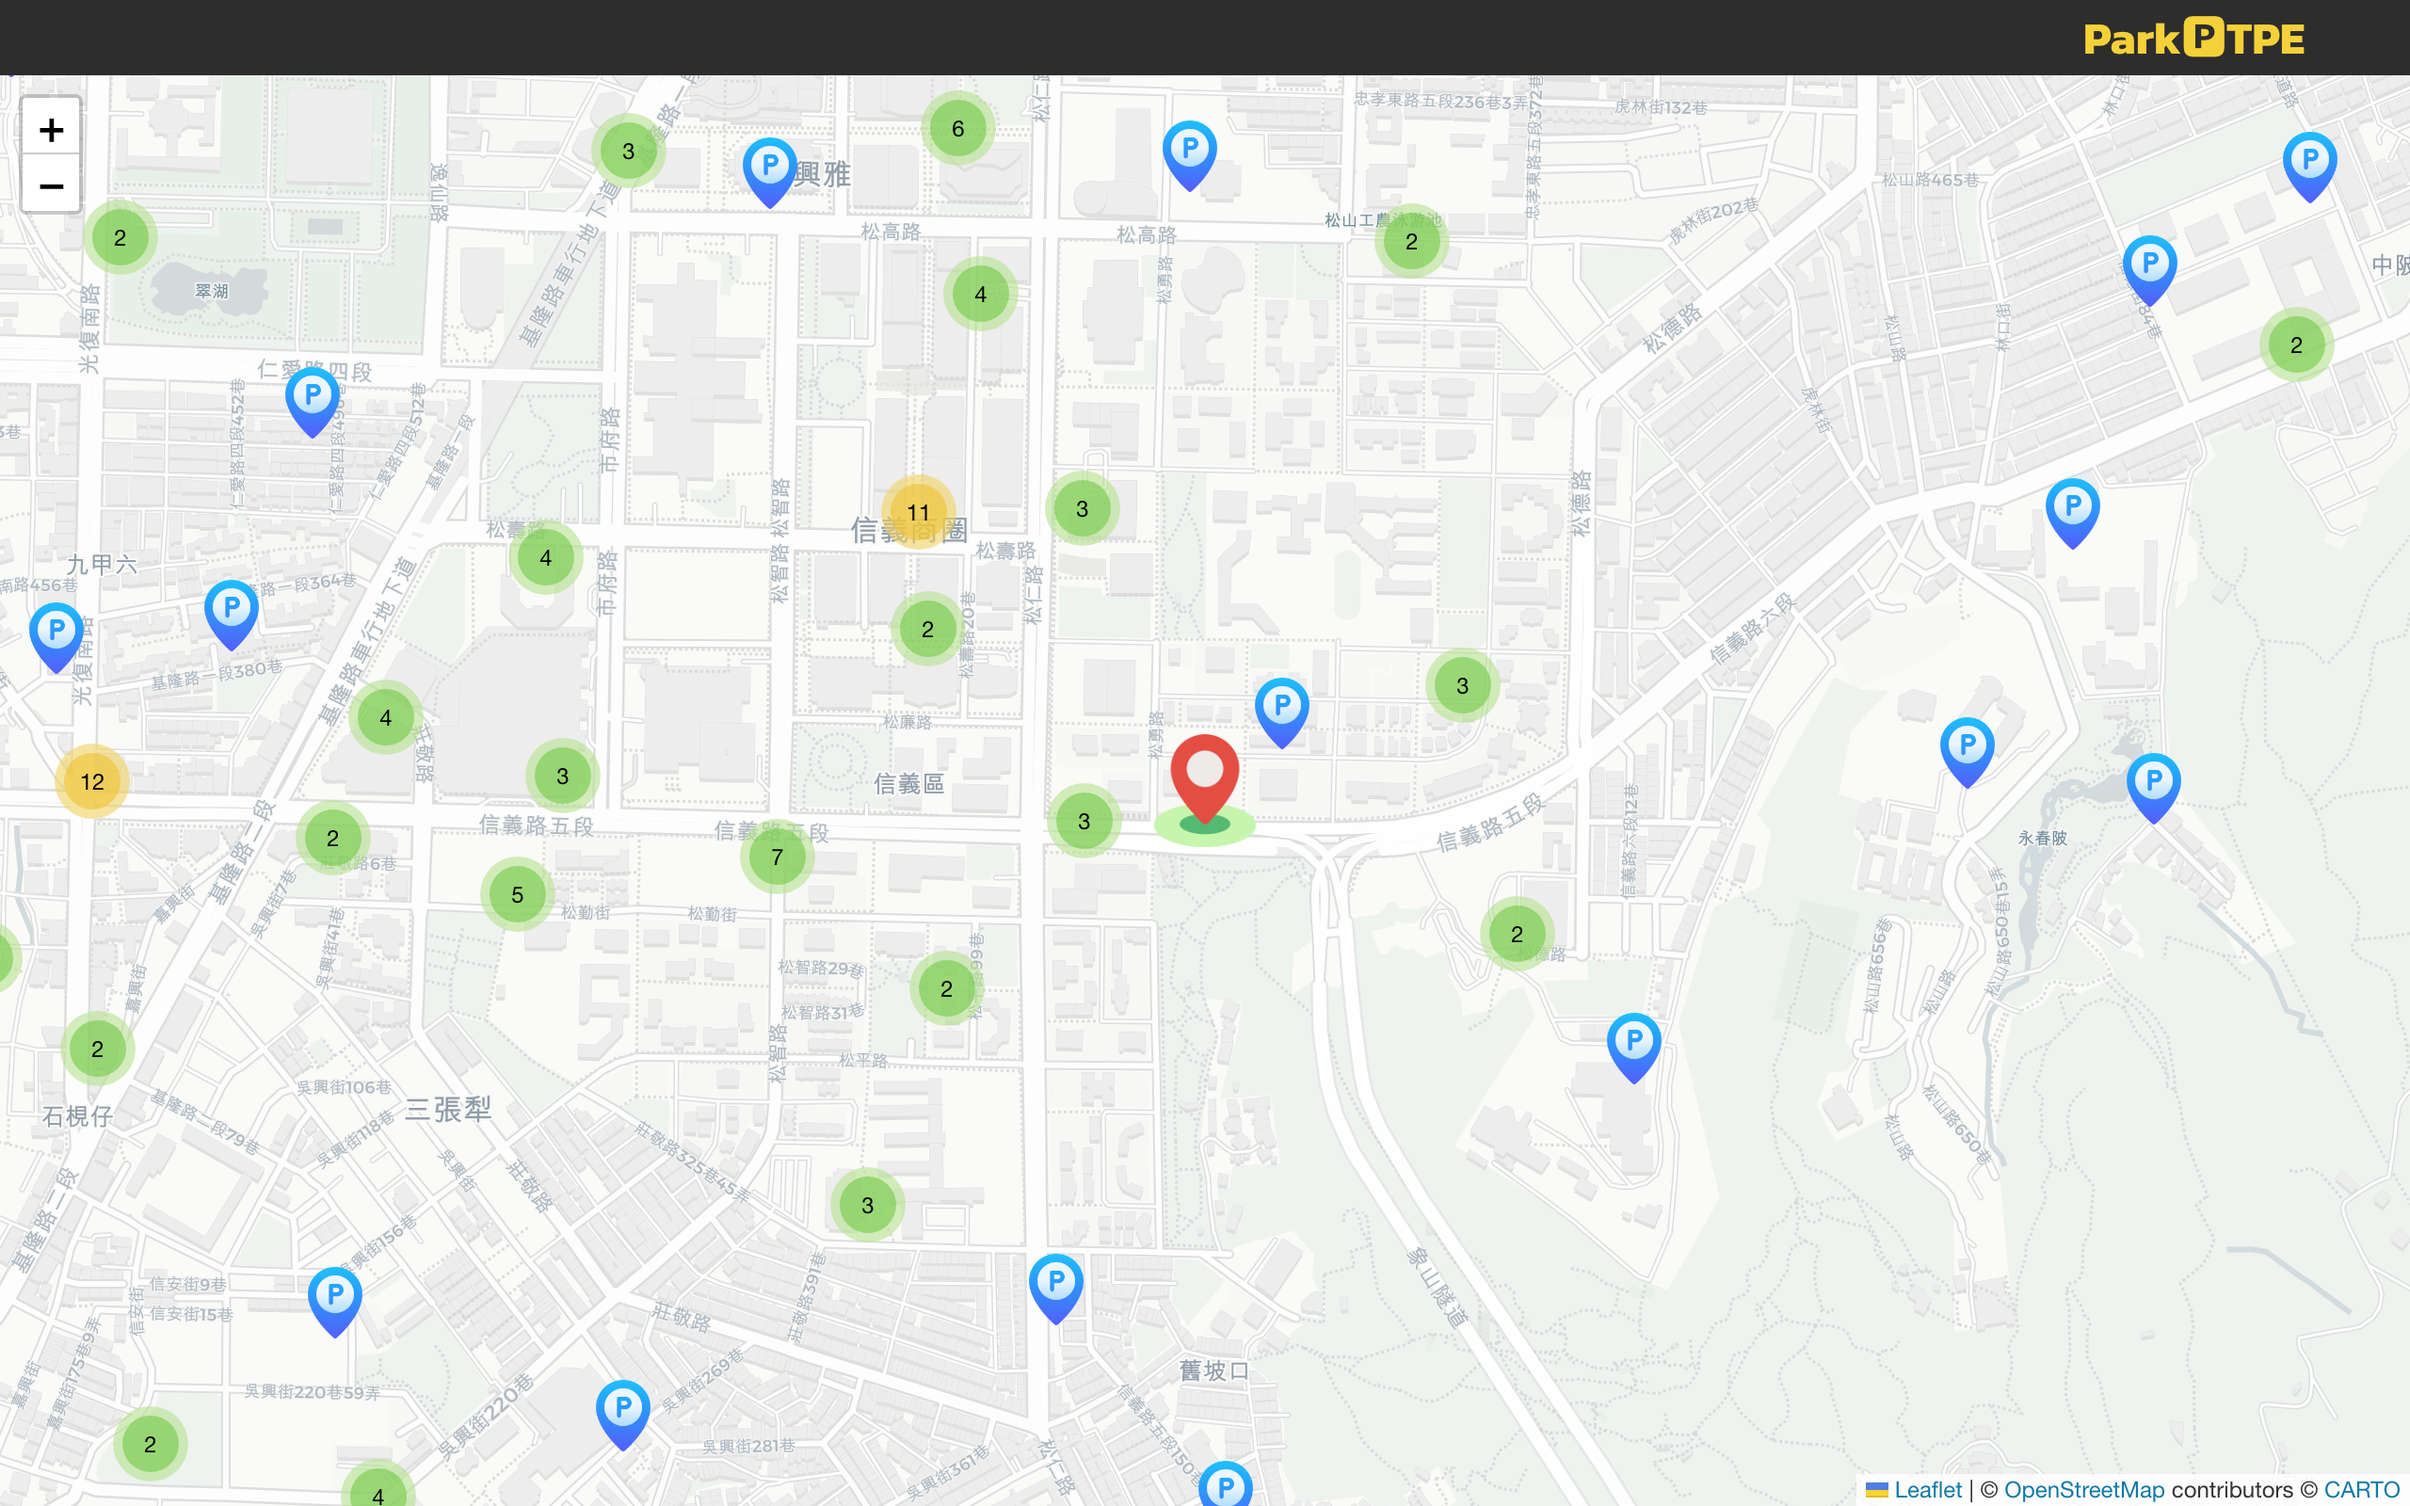
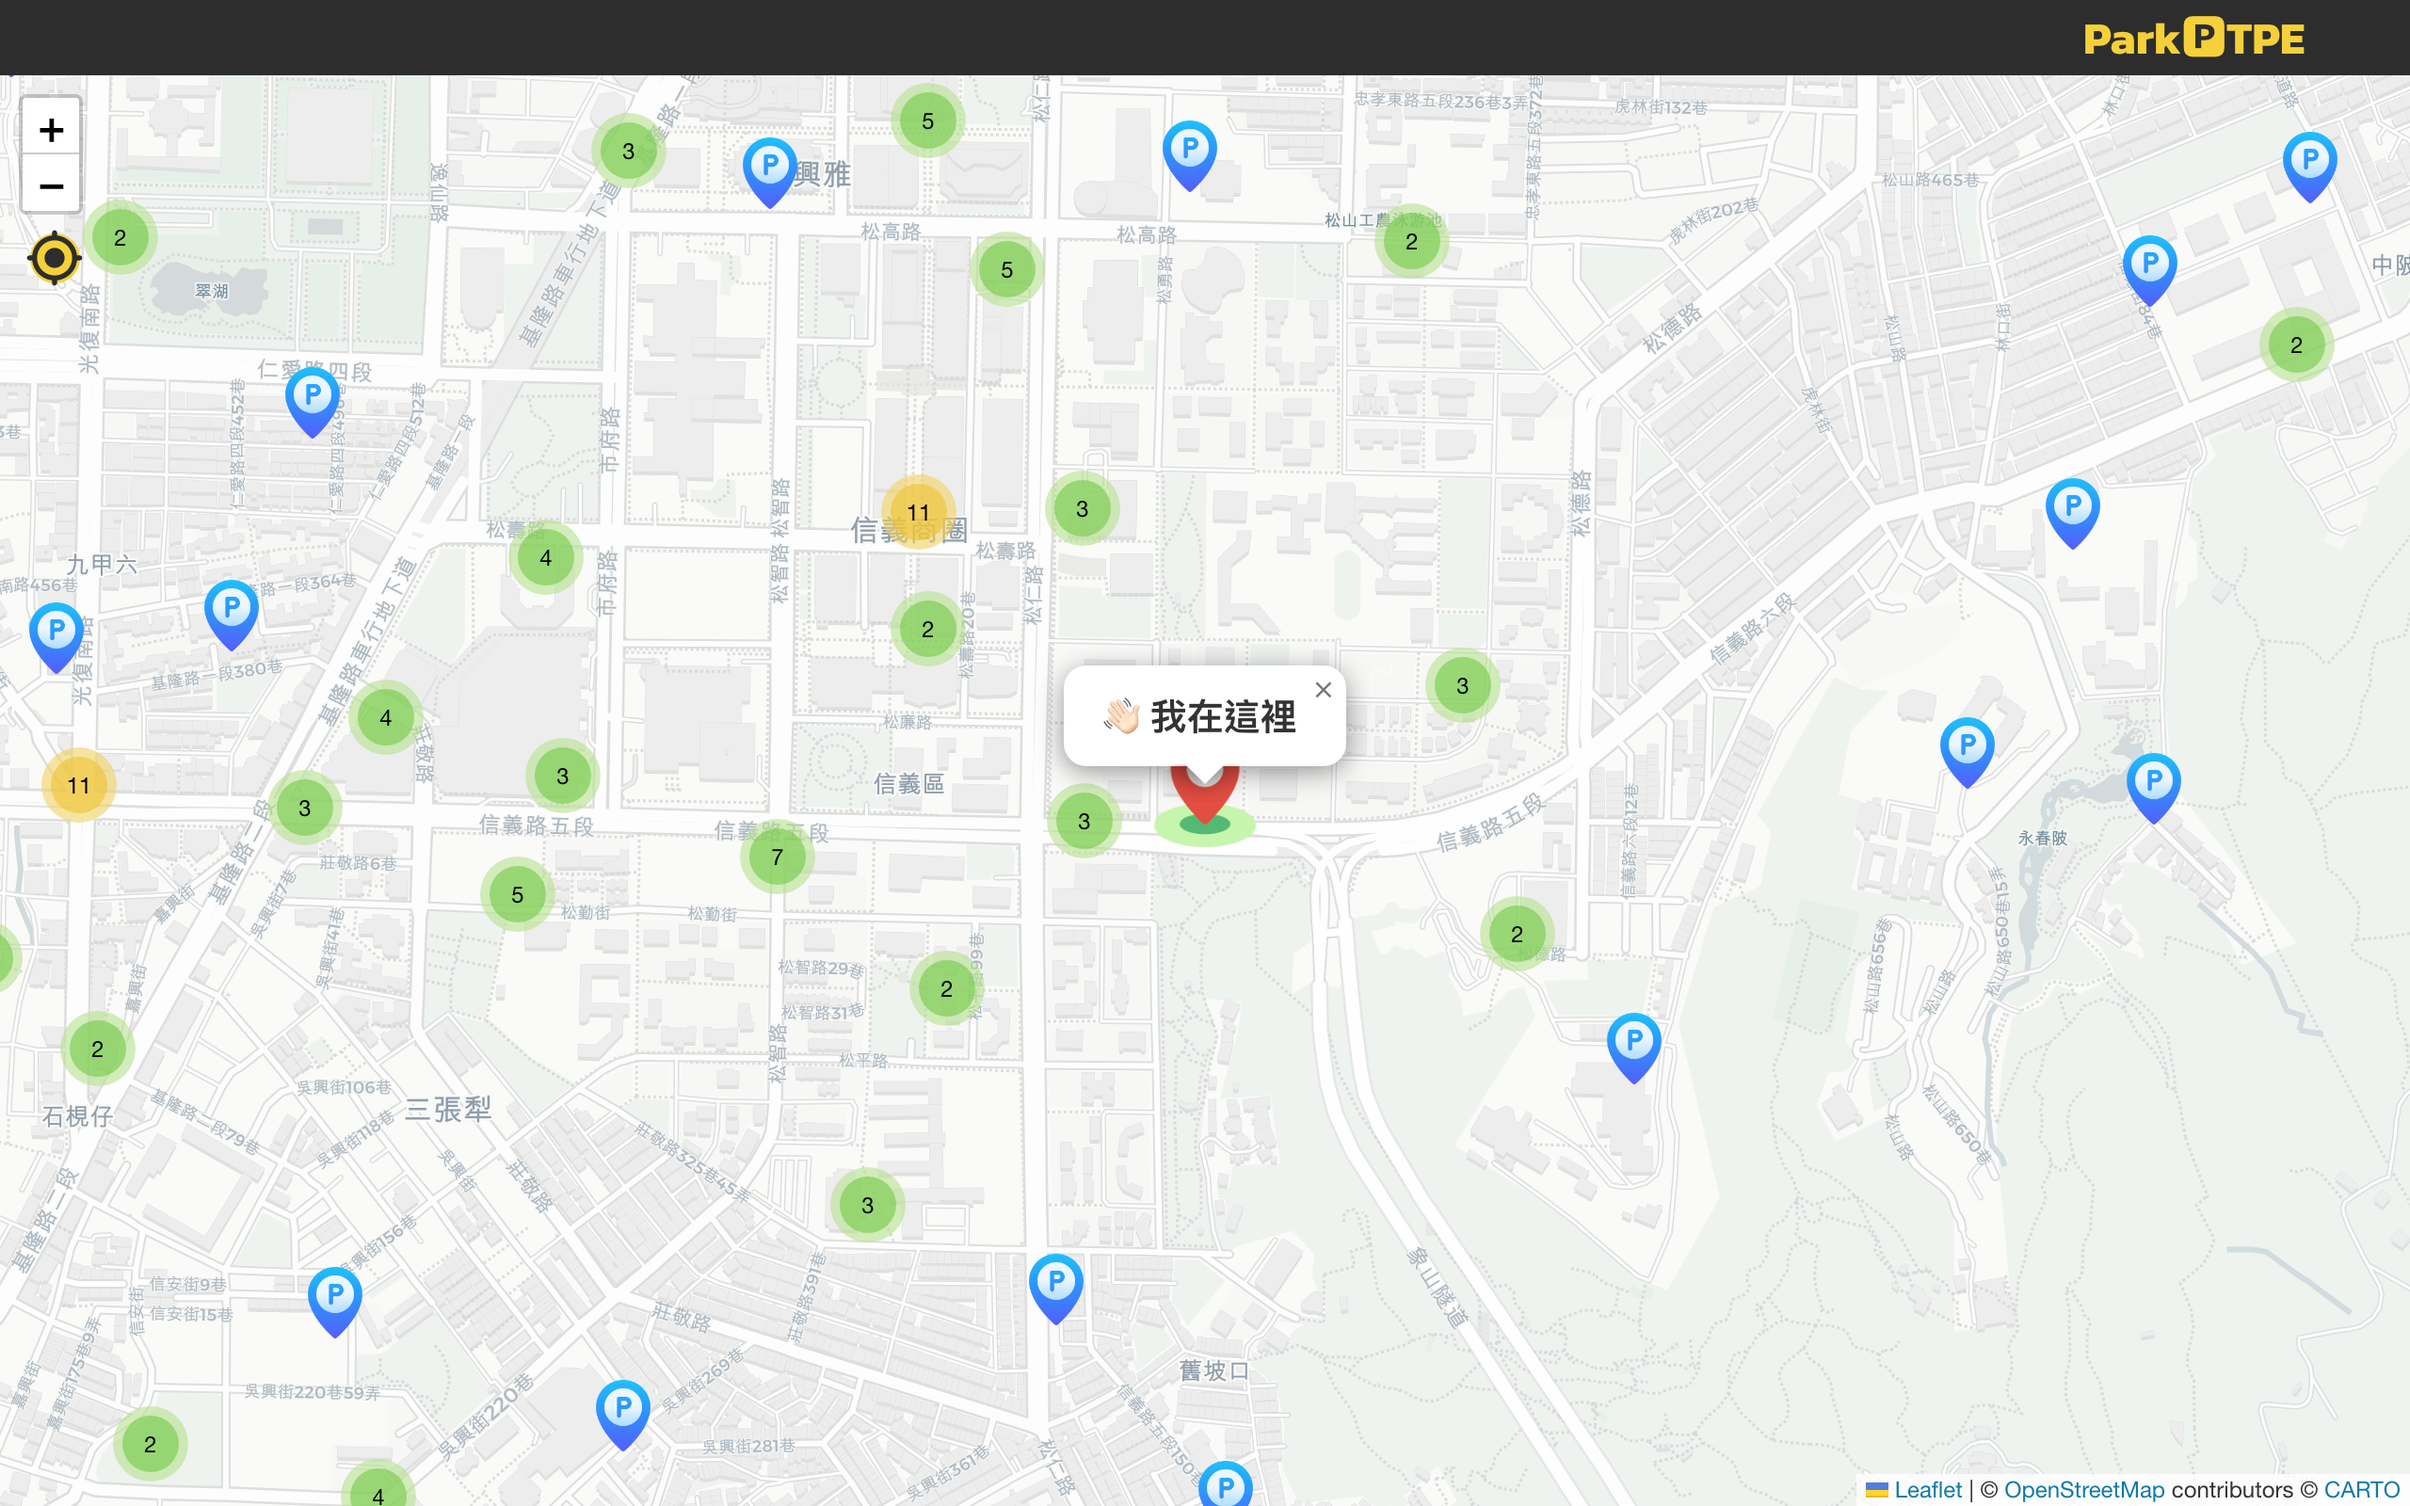
update README & TT

diff --git a/src/App.jsx b/src/App.jsx
@@ -16,7 +16,7 @@ function App() {
   const [parkingLot, setParkingLot] = useState([]);
   const [spaceLeft, setSpaceLeft] = useState([]);
   useCustomWindowSize();
-  useGeolocation(position, setPosition);
+  useGeolocation(setPosition);
 
   function MapCenter() {
     const map = useMap();
@@ -26,7 +26,6 @@ function App() {
     return null;
   }
   function handleBtnClick() {
-    console.log('click 1 time');
     // 檢查瀏覽器是否支援 & 需要是 HTTPS 協議
     if ('geolocation' in navigator) {
       // 呼叫 navigator.geoLocation
@@ -34,7 +33,6 @@ function App() {
         // 如果同意則抓取定位
         ({ coords }) => {
           setPosition({ lat: coords.latitude, lng: coords.longitude });
-          console.log('onSuccess');
         },
         // 處理錯誤
         (error) => {
@@ -46,7 +44,7 @@ function App() {
                 const { data } = await axios.get('https://ipapi.co/json');
                 setPosition({ lat: data.latitude, lng: data.longitude });
               } catch (error) {
-                console.error('[blocked and get IPApi failed]', error);
+                console.error('[blocked and get IP-API failed]', error);
               }
             };
             fetch();

diff --git a/src/hooks/index.jsx b/src/hooks/index.jsx
@@ -1,7 +1,7 @@
-import { useEffect, useState } from 'react';
+import { useEffect } from 'react';
 import axios from 'axios';
 
-export const useGeolocation = (position, setPosition) => {
+export const useGeolocation = (setPosition) => {
   useEffect(() => {
     // 檢查瀏覽器是否支援 & 需要是 HTTPS 協議
     if ('geolocation' in navigator) {

diff --git a/README.md b/README.md
@@ -25,9 +25,9 @@ The new skills I utilized in this side project include:
 | ![intro](./public/intro.png)           |
 | ![popup-info](./public/popup-info.png) |
 
-| mobile                         |                                            | tablet                         |
-| ------------------------------ | ------------------------------------------ | ------------------------------ |
-| ![mobile](./public/mobile.jpg) | ![mobile-popup](./public/mobile-popup.jpg) | ![tablet](./public/tablet.png) |
+| mobile                         |                                          | tablet                          |
+| ------------------------------ | ---------------------------------------- | ------------------------------- |
+| ![mobile](./public/mobile.png) | ![mobile-popup](./public/mobile-pop.png) | ![tablet](./public/tablet.jpeg) |
 
 ## :blue_car: Features:
 
@@ -36,7 +36,7 @@ The new skills I utilized in this side project include:
 
 - Total and available car spaces
 - Address, telephone number, and service hours
-- Parking space types and fees*
+- Parking space types and fees\*
 
 3. Allow users to move the map to view parking lots outside of their current location
 4. Supports desktop, tablet, and mobile devices
@@ -79,16 +79,14 @@ This information is sourced from the [Taipei City Parking Lot Information](https
 
 此資料來源為政府資料開放平台中的臺北市停車場資訊，原始資料使用政府資料開放授權條款-第 1 版授權，依照第三條第二項要求標示出處為政府資料開放平台。
 
-## *Features in plan
+## \*Features in plan
 
 - Parking fee: due to the complexity of the data structure for the FareInfo provided by the API, this feature will be completed in the near future.
 
 ![fareInfo](./public/fareInfo.png)
 
-## *Notification
+## \*Notification
 
 At times, the webpage may fail to load, and an error message of "The specified blob does not exist" can be found by inspecting the console. Possible reasons for this issue may include problems with the network connection or a failure in the server response from Azure. Please wait for a moment and try refreshing the page to restore normal functionality.
 
 ![blob](./public/blob.png)
-
-
